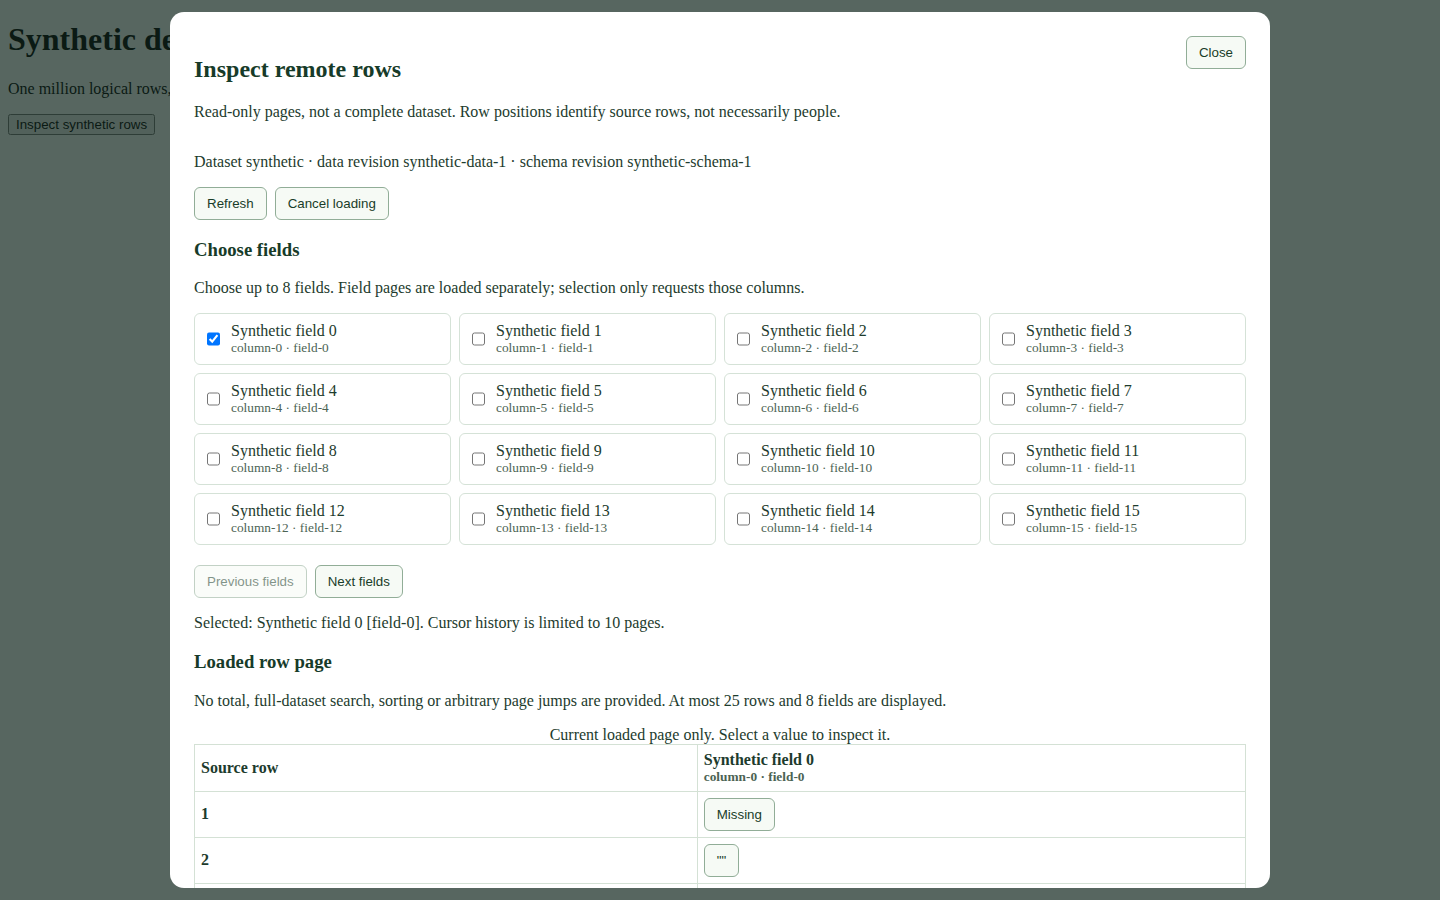
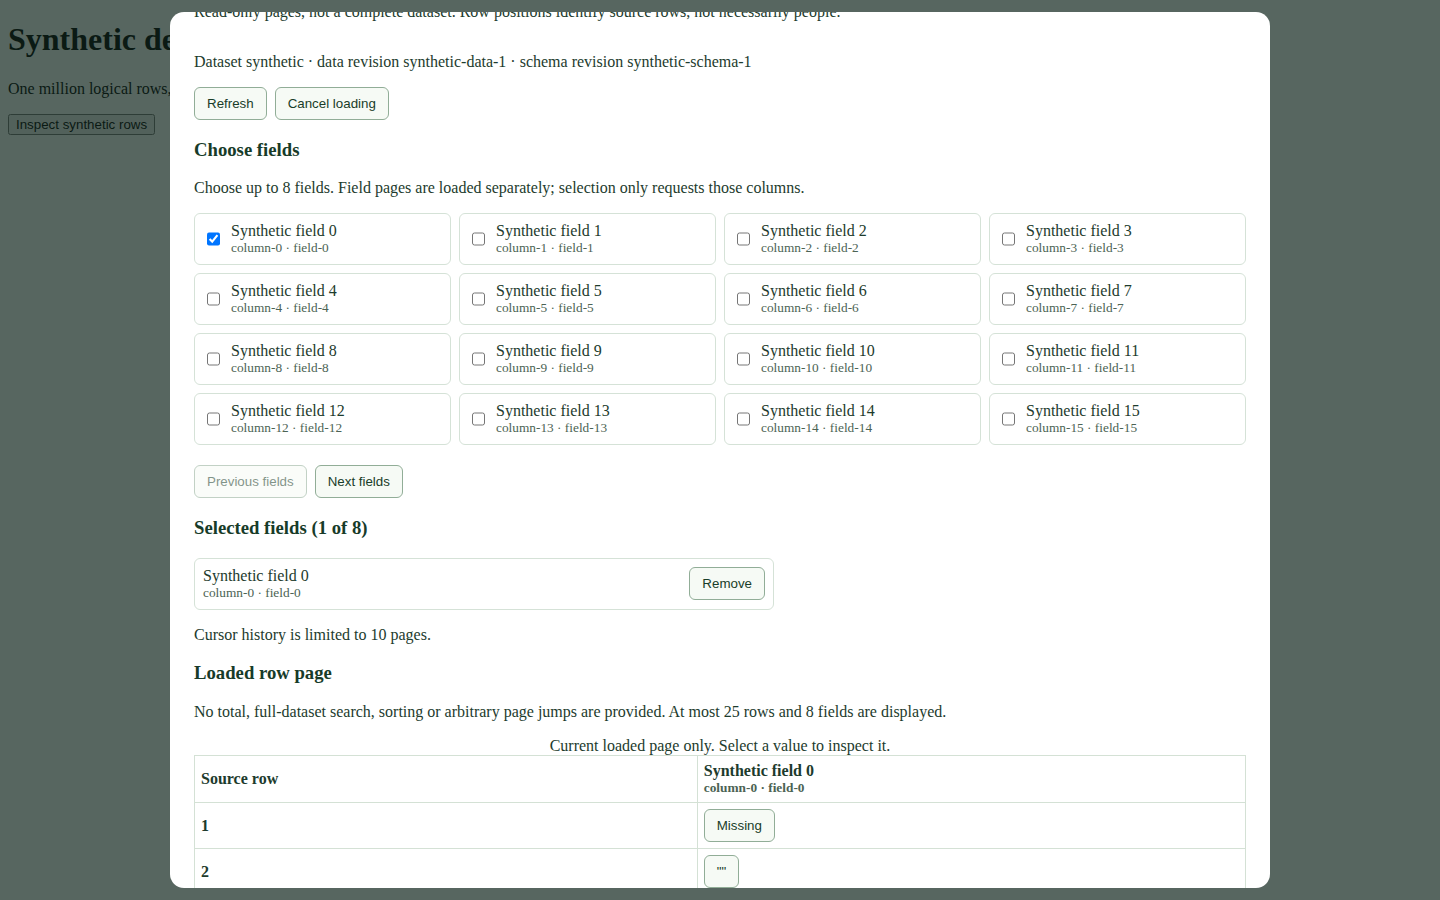
Keep selected remote fields removable

diff --git a/src/features/data/remote-rows/RemoteRowsInspector.tsx b/src/features/data/remote-rows/RemoteRowsInspector.tsx
@@ -15,7 +15,7 @@ function next(nav: Navigation, cursor: string): Navigation {
   return { ...nav, cursors, index: cursors.length - 1 };
 }
 export function RemoteRowsInspector({ source, provider, onClose }: Props) {
-  const modal = useRef<HTMLElement>(null), title = useId(), description = useId();
+  const modal = useRef<HTMLElement>(null), selectedHeading = useRef<HTMLHeadingElement>(null), title = useId(), description = useId();
   useModalAccessibility(modal, onClose);
   const key = sourceKey(source), owner: Owner | null = provider && validSource(source) ? { provider, key } : null;
   const latest = useRef({ owner, columns: '' }); latest.current.owner = owner;
@@ -44,7 +44,7 @@ export function RemoteRowsInspector({ source, provider, onClose }: Props) {
     if (!owner || !schema) return;
     const ac = new AbortController(); controllers.current.schema = ac; setSchemaPage(null); setSchemaStatus('Loading field page…');
     const request = { source: { ...source }, cursor: schemaCursor, limit: limits.fields, maxBytes: limits.bytes, signal: ac.signal };
-    void owner.provider.schema(request).then(raw => {
+    void Promise.resolve().then(() => { if (ac.signal.aborted) throw new DOMException('Canceled', 'AbortError'); return owner.provider.schema(request); }).then(raw => {
       if (ac.signal.aborted || !sameOwner(latest.current.owner, owner)) return;
       const value = validateSchema(raw, request);
       if (selectedRef.current.some(f => value.items.some(g => g.id === f.id && (g.label !== f.label || g.sourceColumn !== f.sourceColumn)))) { controllers.current.rows?.abort(); cache.current = []; setSelectedState(null); setRowPage(null); setInspected(null); throw Error('A selected field identity changed. Refresh the inspector.'); }
@@ -61,7 +61,7 @@ export function RemoteRowsInspector({ source, provider, onClose }: Props) {
     if (hit) { cache.current = [hit, ...cache.current.filter(entry => entry !== hit)].slice(0, limits.cache); setRowPage(hit); setRowStatus(''); return () => ac.abort(); }
     setRowPage(null); setRowStatus('Loading row page…');
     const request = { source: { ...source }, cursor: rowCursor, columns: currentColumns, limit: limits.rows, maxBytes: limits.bytes, signal: ac.signal };
-    void owner.provider.rows(request).then(raw => {
+    void Promise.resolve().then(() => { if (ac.signal.aborted) throw new DOMException('Canceled', 'AbortError'); return owner.provider.rows(request); }).then(raw => {
       if (ac.signal.aborted || !sameOwner(latest.current.owner, owner) || latest.current.columns !== columns) return;
       const value = validateRows(raw, request), entry = { owner: rowOwner, cursor: rowCursor, value };
       cache.current = [entry, ...cache.current.filter(item => !(sameOwner(item.owner, rowOwner) && item.cursor === rowCursor))].slice(0, limits.cache); setRowPage(entry); setRowStatus('');
@@ -85,7 +85,9 @@ export function RemoteRowsInspector({ source, provider, onClose }: Props) {
     {schemaStatus && <p role="status">{schemaStatus} <button type="button" onClick={() => setSchemaAttempt(n => n + 1)}>Retry fields</button></p>}
     {schemaCurrent && <><div className="remote-rows-fields">{schemaCurrent.items.map(field => <label key={field.id}><input type="checkbox" checked={selected.some(f => f.id === field.id)} disabled={selected.length >= limits.selected && !selected.some(f => f.id === field.id)} onChange={() => toggle(field)}/><span>{field.label || '(Unlabeled)'} <small>{field.sourceColumn} · {field.id}</small></span></label>)}</div>{!schemaCurrent.items.length && <p>No fields on this page.</p>}</>}
     <div className="remote-rows-controls"><button type="button" disabled={!schema || schema.index === 0} onClick={() => schema && setSchemaNav({ ...schema, index: schema.index - 1 })}>Previous fields</button><button type="button" disabled={!schemaCurrent?.nextCursor} onClick={() => { if (schema && schemaCurrent?.nextCursor) try { setSchemaNav(next(schema, schemaCurrent.nextCursor)); } catch (e) { setSchemaPage(null); setSchemaStatus((e as Error).message); } }}>Next fields</button></div>
-    <p>Selected: {selected.length ? selected.map(f => `${f.label || '(Unlabeled)'} [${f.id}]`).join(', ') : 'none'}. Cursor history is limited to {limits.history} pages.</p>
+    <section aria-label="Selected fields"><h3 ref={selectedHeading} tabIndex={-1}>Selected fields ({selected.length} of {limits.selected})</h3>
+    {selected.length ? <ul className="remote-rows-selected">{selected.map(field => <li key={field.id}><span>{field.label || '(Unlabeled)'} <small>{field.sourceColumn} · {field.id}</small></span><button type="button" aria-label={`Remove selected field ${field.label || '(Unlabeled)'} [${field.id}], source column ${field.sourceColumn}`} onClick={() => { toggle(field); selectedHeading.current?.focus(); }}>Remove</button></li>)}</ul> : <p>No fields selected.</p>}
+    <p>Cursor history is limited to {limits.history} pages.</p></section>
     <h3>Loaded row page</h3><p>No total, full-dataset search, sorting or arbitrary page jumps are provided. At most {limits.rows} rows and {limits.selected} fields are displayed.</p>
     {rowStatus && <p role="status">{rowStatus} {selected.length > 0 && <button type="button" onClick={() => setRowAttempt(n => n + 1)}>Retry rows</button>}</p>}
     {rowCurrent && <><div className="remote-rows-table" tabIndex={0} role="region" aria-label="Loaded remote rows"><table><caption>Current loaded page only. Select a value to inspect it.</caption><thead><tr><th scope="col">Source row</th>{selected.map(f => <th scope="col" key={f.id}>{f.label || '(Unlabeled)'}<small>{f.sourceColumn} · {f.id}</small></th>)}</tr></thead><tbody>{rowCurrent.items.map(row => <tr key={row.position}><th scope="row">{row.position}</th>{selected.map(field => { const has = Object.hasOwn(row.values, field.id), value = has ? JSON.stringify(row.values[field.id]) : 'Missing'; return <td key={field.id}><button type="button" onClick={() => rowOwner && setInspected({ owner: rowOwner, cursor: rowCursor, row, field })} aria-label={`Inspect row ${row.position}, ${field.label} [${field.id}]: ${value.slice(0, 100)}`}>{value.length > 80 ? `${value.slice(0, 80)}…` : value}</button></td>; })}</tr>)}</tbody></table></div>{!rowCurrent.items.length && <p>No rows on this page.</p>}</>}

diff --git a/src/features/data/remote-rows/__tests__/RemoteRowsInspector.test.tsx b/src/features/data/remote-rows/__tests__/RemoteRowsInspector.test.tsx
@@ -35,3 +35,18 @@ it('does not let a late next-page response overwrite a changed field query',asyn
  const provider:RemoteRowsProvider={schema:fixture.provider.schema,rows:req=>{if(req.cursor!==null){lateSignal=req.signal;return new Promise(resolve=>{finish=resolve;});}return fixture.provider.rows(req);}};
  await act(async()=>root.render(<RemoteRowsInspector source={source} provider={provider} onClose={()=>{}}/>));await settle();await act(async()=>document.querySelector<HTMLInputElement>('.remote-rows-fields input')!.click());await settle();await click('Next rows');await act(async()=>document.querySelectorAll<HTMLInputElement>('.remote-rows-fields input')[1].click());await settle();expect(lateSignal?.aborted).toBe(true);await act(async()=>finish({source,cursor:'r:25',nextCursor:null,items:[{position:'stale-next',values:{'field-0':1}}]}));expect(document.body.textContent).not.toContain('stale-next');expect(document.querySelectorAll('tbody tr')).toHaveLength(25);
 });
+it('removes selected fields after their schema page leaves history and selects a replacement',async()=>{
+ const fixture=syntheticRemoteRows(source,100,600);await act(async()=>root.render(<RemoteRowsInspector source={source} provider={fixture.provider} onClose={()=>{}}/>));await settle();
+ for(let i=0;i<8;i++){await act(async()=>document.querySelectorAll<HTMLInputElement>('.remote-rows-fields input')[i].click());await settle();}
+ expect(document.querySelectorAll('[aria-label="Selected fields"] li')).toHaveLength(8);
+ for(let i=0;i<11;i++)await click('Next fields');
+ for(let i=0;i<9;i++)await click('Previous fields');expect(button('Previous fields').disabled).toBe(true);expect(document.body.textContent).not.toContain('Synthetic field 0 ·');
+ const remove=document.querySelector<HTMLButtonElement>('[aria-label="Remove selected field Synthetic field 0 [field-0], source column column-0"]')!;expect(remove).toBeTruthy();await act(async()=>remove.click());await settle();expect(document.activeElement?.textContent).toContain('Selected fields');expect(document.querySelectorAll('[aria-label="Selected fields"] li')).toHaveLength(7);
+ await act(async()=>document.querySelector<HTMLInputElement>('.remote-rows-fields input')!.click());await settle();expect(document.querySelectorAll('[aria-label="Selected fields"] li')).toHaveLength(8);expect(fixture.stats.maxColumnsRequested).toBe(8);
+});
+it.each(['schema','rows'] as const)('reports a synchronous %s provider failure and permits retry',async kind=>{
+ const fixture=syntheticRemoteRows(source,100,10);let failures=1;const provider:RemoteRowsProvider={schema:request=>{if(kind==='schema'&&failures-- > 0)throw Error('Synthetic synchronous schema failure');return fixture.provider.schema(request);},rows:request=>{if(kind==='rows'&&failures-- > 0)throw Error('Synthetic synchronous row failure');return fixture.provider.rows(request);}};
+ await act(async()=>root.render(<RemoteRowsInspector source={source} provider={provider} onClose={()=>{}}/>));await settle();
+ if(kind==='schema'){expect(document.body.textContent).toContain('Synthetic synchronous schema failure');await click('Retry fields');expect(document.querySelectorAll('.remote-rows-fields input')).toHaveLength(10);}
+ else {await act(async()=>document.querySelector<HTMLInputElement>('.remote-rows-fields input')!.click());await settle();expect(document.body.textContent).toContain('Synthetic synchronous row failure');await click('Retry rows');expect(document.querySelectorAll('tbody tr')).toHaveLength(25);}
+});

diff --git a/src/features/data/remote-rows/remoteRows.css b/src/features/data/remote-rows/remoteRows.css
@@ -14,3 +14,8 @@
 .remote-rows-table :is(th,td) { padding:6px; border:1px solid #d4e1d5; text-align:left; min-width:100px; overflow-wrap:anywhere; }
 .remote-rows-dialog textarea { display:block; box-sizing:border-box; width:100%; }
 @media(max-width:600px) { .remote-rows-dialog { padding:14px; } .remote-rows-dialog header { flex-wrap:wrap; } }
+
+.remote-rows-selected { list-style:none; padding:0; display:grid; gap:6px; max-width:580px; }
+.remote-rows-selected li { display:flex; align-items:center; justify-content:space-between; gap:12px; padding:8px; border:1px solid #d5e2d7; border-radius:6px; }
+.remote-rows-selected small { display:block; overflow-wrap:anywhere; color:#4c6354; }
+.remote-rows-dialog h3[tabindex="-1"]:focus { outline:3px solid #18713e; outline-offset:2px; }

diff --git a/docs/validation/remote-rows/README.md b/docs/validation/remote-rows/README.md
@@ -2,7 +2,7 @@
 
 This is a reusable, read-only component, not a production integration. No production provider or route is installed. Without an injected supported provider, the inspector explains that remote inspection is unavailable. The existing complete-local inspector and remote field catalog are unchanged. The isolated SQLite prototype branch `feat/synthetic-large-dataset-slice-20261112` was not advertised by origin and commit `12d68ed` was not present in the local object database at implementation time. Its contract could not be inspected, so this interface does **not** claim compatibility with its cursors, revisions or responses.
 
-An adapter supplies `schema` and `rows` methods. Each receives dataset ID, dataset revision, schema revision, an opaque cursor, limit, byte limit and abort signal; row requests additionally specify exact ordered field IDs. Responses echo the source, request cursor, next cursor, and bounded items; rows also echo the exact ordered columns. Missing properties, empty strings, `null` and finite numbers remain distinct. Adapters must bind cursors to source revisions and query, ensure stable unique field and row identities, and enforce the byte cap **before decoding** the response. The UI checks the decoded payload again; that second check cannot prevent a nonconforming provider from downloading or allocating an oversized response. Real adapters must be reviewed for streaming/transport limits and service-specific authorization before use.
+An adapter supplies `schema` and `rows` methods. Each receives dataset ID, dataset revision, schema revision, an opaque cursor, limit, byte limit and abort signal; row requests additionally specify exact ordered field IDs. Responses echo the source, request cursor, next cursor, and bounded items; rows also echo the exact ordered columns. Missing properties, empty strings, `null` and finite numbers remain distinct. Each row must carry a stable unique row identity (`position`) separate from its selected values; it is not inferred from those values. A real SQLite-prototype adapter must map the prototype’s schema pages into this field-page contract, bind and map cursors to both dataset/schema revisions and the requested query, preserve that independent row identity, and enforce the byte cap **before decoding** the response. The UI checks the decoded payload again; that second check cannot prevent a nonconforming provider from downloading or allocating an oversized response. Real adapters must be reviewed for streaming/transport limits and service-specific authorization before use.
 
 The inspector displays at most 25 rows and eight chosen fields; a schema page holds at most 40 fields. It keeps at most three cached row pages and ten cursor positions per navigation history. It never fetches all pages, promises totals, searches respondent values, sorts, exports, saves, or changes reports and analyses. A source revision or provider change invalidates visible results and selections. This is a cursor-based bounded viewer; after history eviction, an earlier cursor is no longer available until refresh. Limits are client policy, not a backend capacity claim.
 
@@ -20,3 +20,7 @@ npm run build
 Chromium tested the standalone development harness, paging, empty-string inspection, keyboard activation and Escape/focus restoration, narrow layout and native 200% zoom, with non-local requests blocked. Screenshots are included. It did not test a real service, the actual production app integration, or a screen reader.
 
 Final checks on main `98f5544d7a9e6f1c3a80c68d0abe9c64a23c65a3`: 17 focused tests passed; the full suite passed 5,750 with four skips (425 files passed, two skipped); typecheck, build and diff checks passed. The skips were optional offline raster/document generation, two optional PowerPoint visual tests, and opt-in live Snowflake integration. The build emitted a large-chunk warning. For the full run Snowflake credentials and `SNOWFLAKE_VERIFY_INTEGRATION` were unset and `SF_OCSP_RESPONSE_CACHE_SERVER_ENABLED=false`; no live Snowflake verification was performed.
+
+The selected-field list exposes a remove control for every selected field even after its schema page falls out of the bounded history. Synchronous provider exceptions are converted into retryable errors. Integration with the separate SQLite prototype remains untested; no compatibility is claimed.
+
+Follow-up validation: 20 focused tests passed; 72 focused and local-row app tests passed across five files. The isolated full suite passed 5,753 tests with four skips (425 files passed, two skipped). Typecheck, build and diff checks passed; build retained the large-chunk warning. Chromium reran the standalone synthetic harness, not a real server or screen reader. The first full-suite attempt ended without a summary; the monitored rerun produced the totals above. Live Snowflake remained disabled and no Snowflake tests were added.
